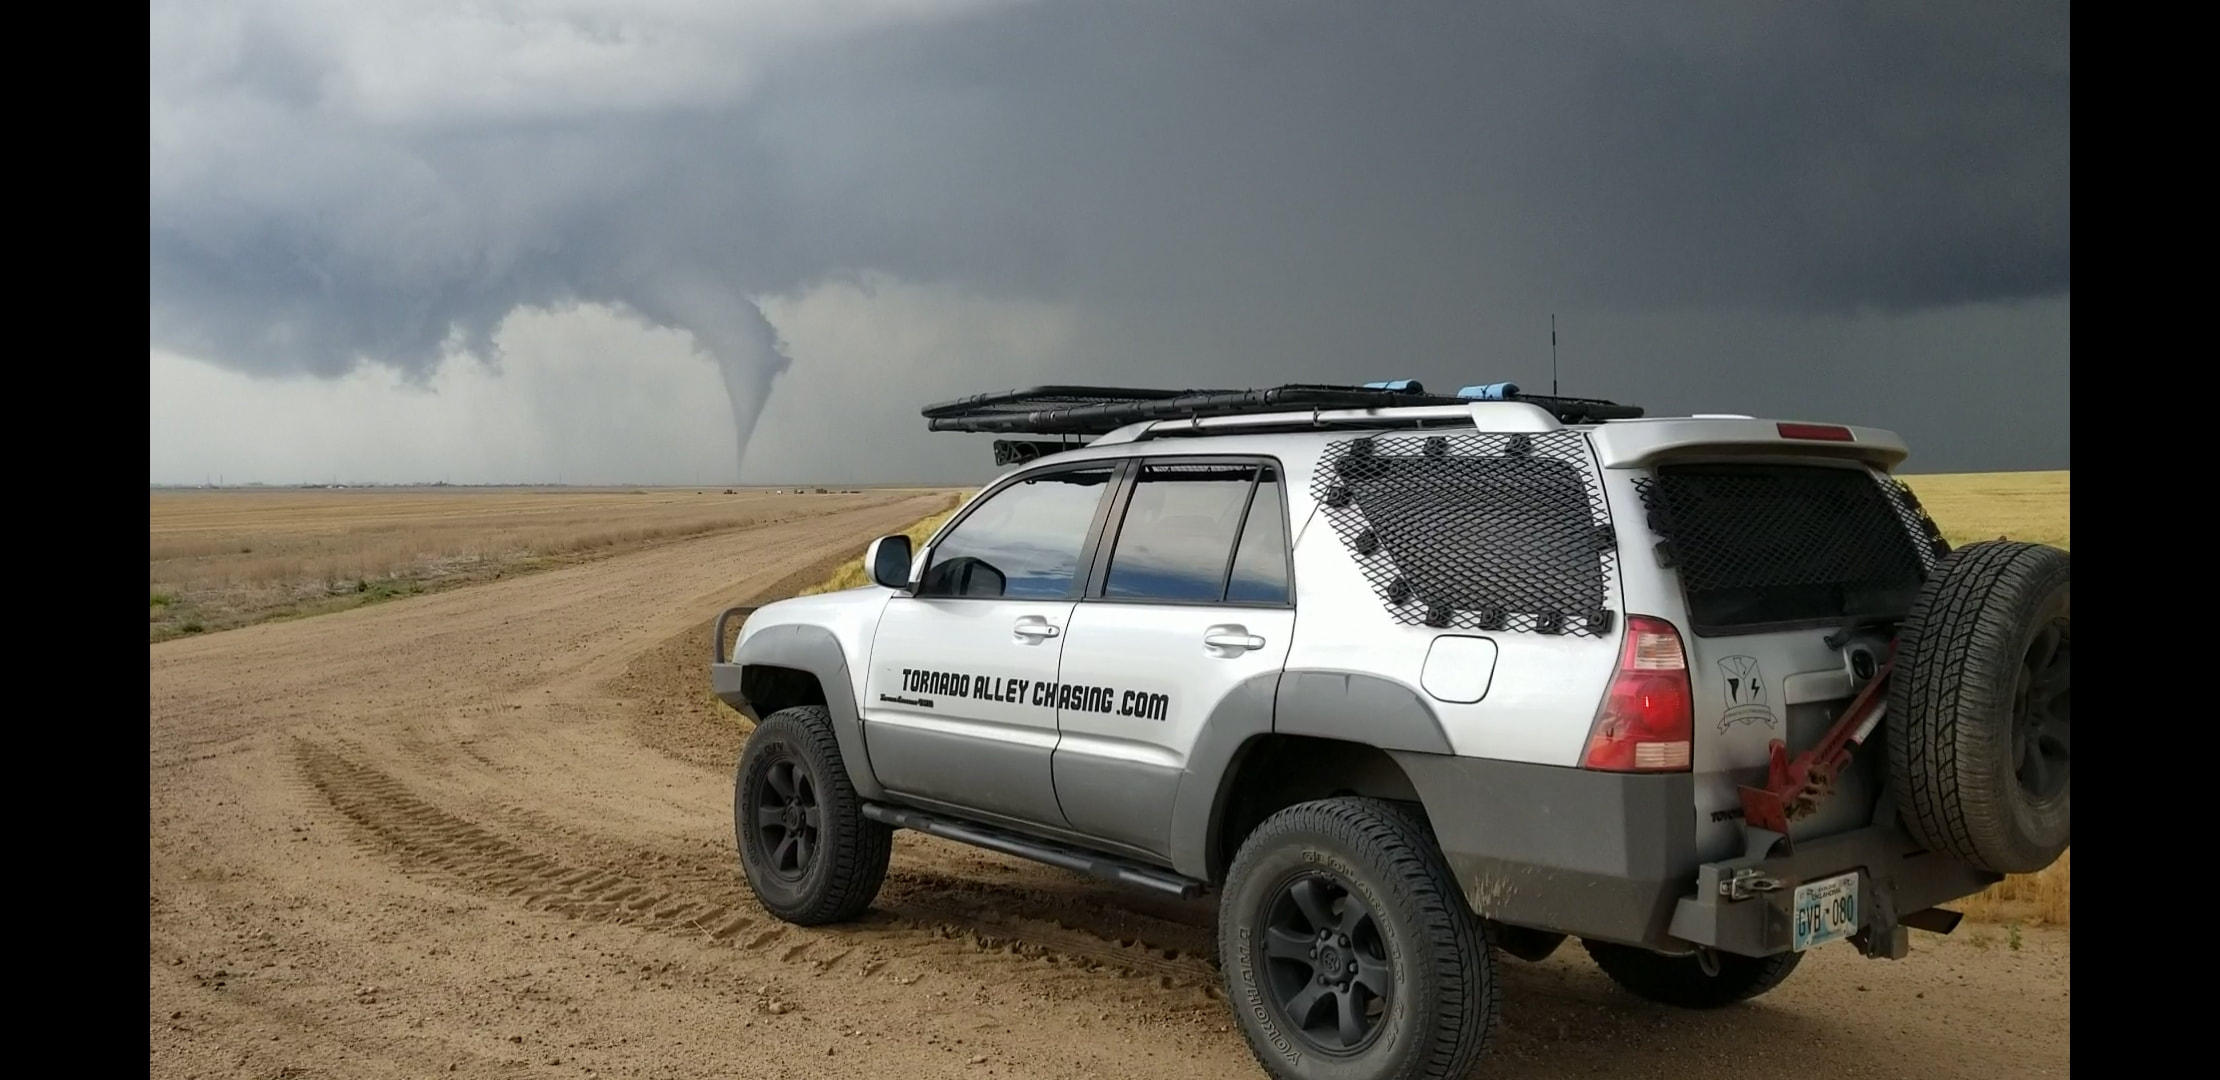
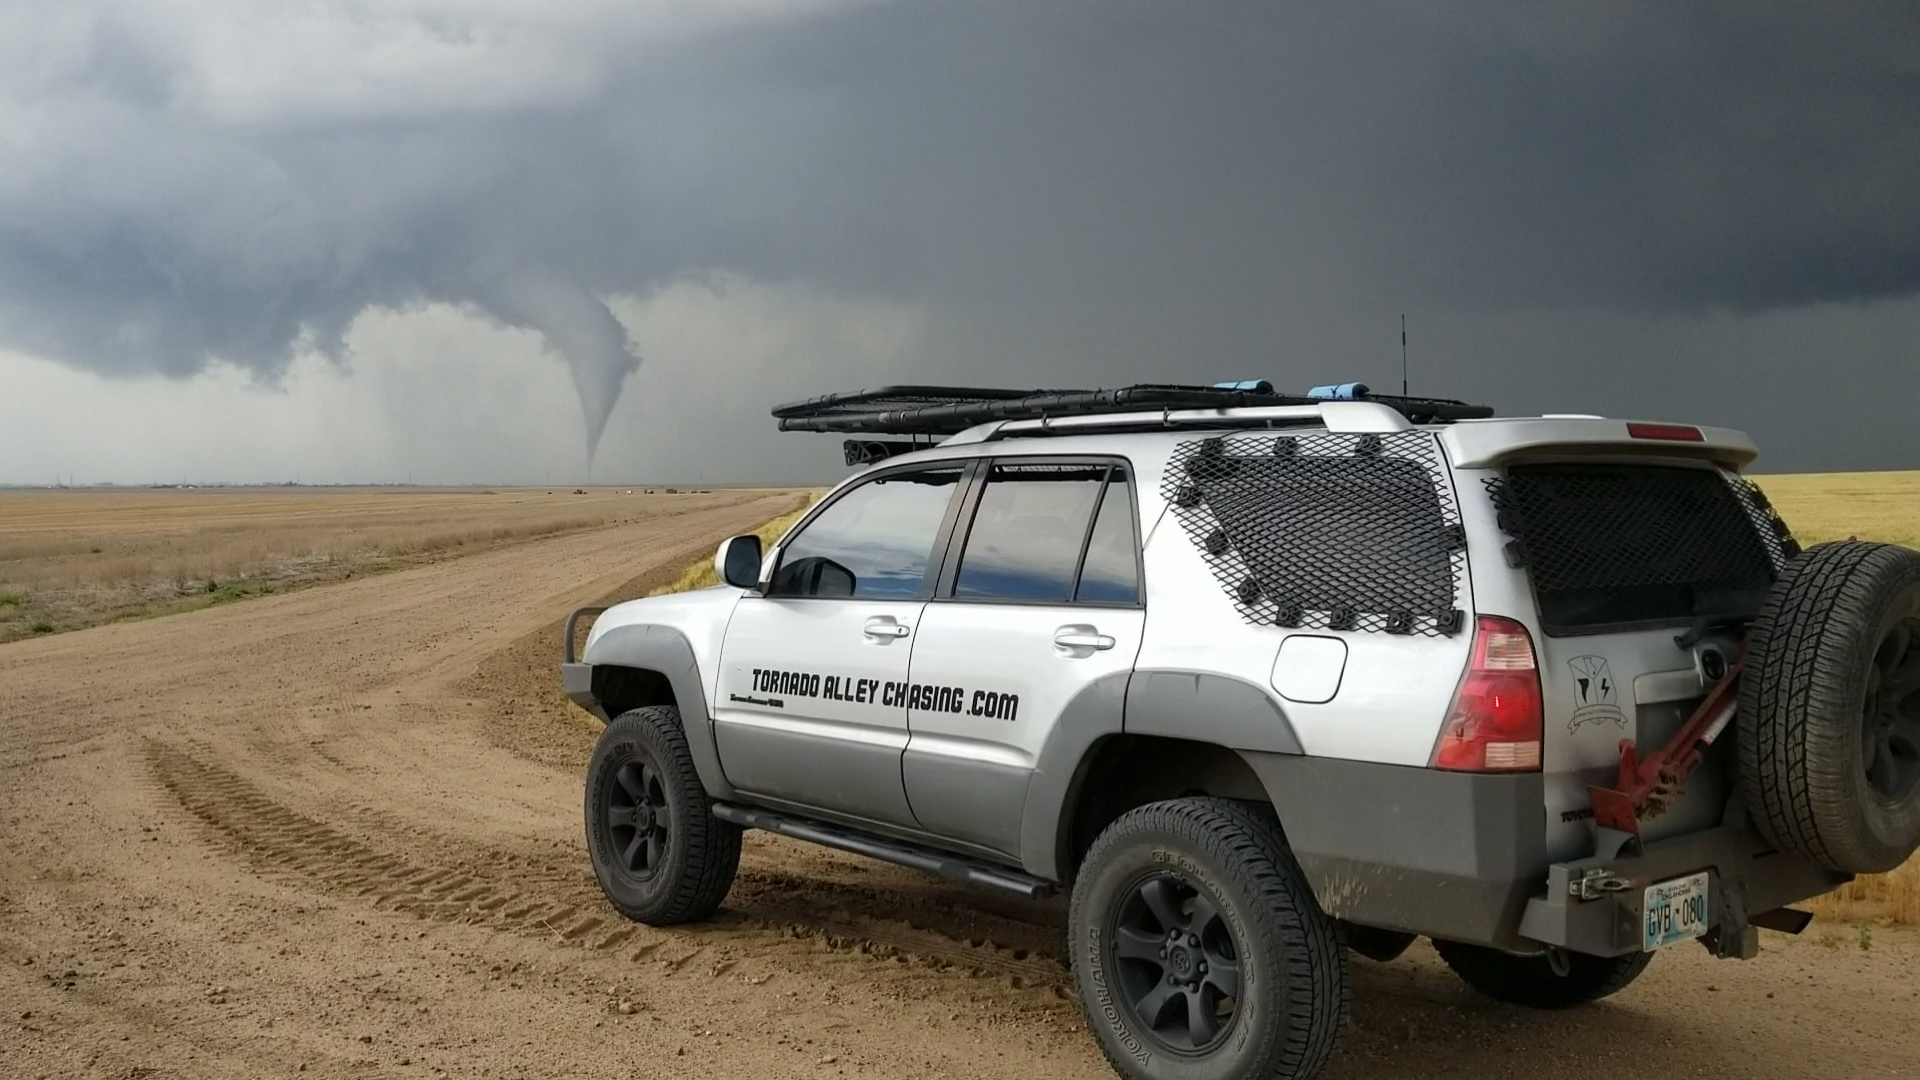
Update chasing-with-me, dates, training, and chase-logs copy; crop stormtrooper photo

diff --git a/app/content.ts b/app/content.ts
@@ -201,12 +201,12 @@ export const vehicle = {
     {
       src: "/images/stormtrooper-4runner.jpg",
       alt: "The Stormtrooper, a lifted white 4Runner, parked roadside with a tornado in the distance",
-      caption: "The Stormtrooper on an intercept, tornado on the ground ahead.",
+      caption: "The current Stormtrooper, the vehicle in use today, on an intercept with a tornado on the ground ahead.",
     },
     {
       src: "/images/stormtrooper.jpg",
       alt: "The TAC chase vehicle parked on a dirt road watching a distant cone tornado",
-      caption: "Hail shields mounted, radar running, cone tornado in view.",
+      caption: "The retired Stormtrooper: hail shields mounted, radar running, cone tornado in view.",
     },
   ],
 };
@@ -515,7 +515,7 @@ export const training = {
     "Choose your own weather topics of interest",
     "Structured lesson format available if preferred",
     "Informal atmosphere with comprehensive learning",
-    "Severe weather forecasting specialisation",
+    "Severe weather forecasting specialization",
   ],
   aboutParagraphs: [
     "My 1-on-1 training sessions are informal, focused, and delivered via live screen-sharing. Whether you're brand new to meteorology or looking to push your forecasting to the next level, sessions are shaped entirely around you.",
@@ -573,7 +573,7 @@ export const datesSignUp = {
       title: "Southern Plains Supercells",
       note: "Focus: supercells paired with tornado potential",
       seatsTotal: 3,
-      seatsBooked: 1,
+      seatsBooked: 2,
     },
     {
       dateRange: "May 12 – 26, 2027",
@@ -601,7 +601,7 @@ export const chaseLogs = {
   eyebrow: "The Full Record",
   heading: "Chase Logs.",
   lead:
-    "Every documented chase day since 2016, straight from the field notebook. Browse by season to see what the sky actually did.",
+    "A representation of a few seasons chasing since 2016, straight from the field notebook. Browse by season to see what the sky actually did.",
   stats: [
     { value: "88", label: "Chase Days Logged" },
     { value: "33", label: "Tornado Days" },

diff --git a/app/chase-logs/page.tsx b/app/chase-logs/page.tsx
@@ -9,7 +9,7 @@ import { chaseLogYears } from "../chaseLogsEntries";
 export const metadata: Metadata = {
   title: "Chase Logs, Tornado Alley Chasing",
   description:
-    "Every documented storm chase day since 2016, browsable by season, with the real field notes and photos from each intercept.",
+    "A representation of a few seasons storm chasing since 2016, browsable by season, with the real field notes and photos from each intercept.",
 };
 
 function tagClass(tag: string) {